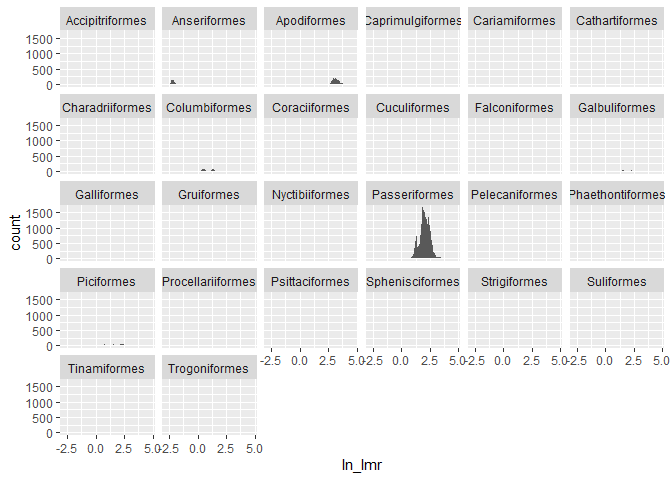
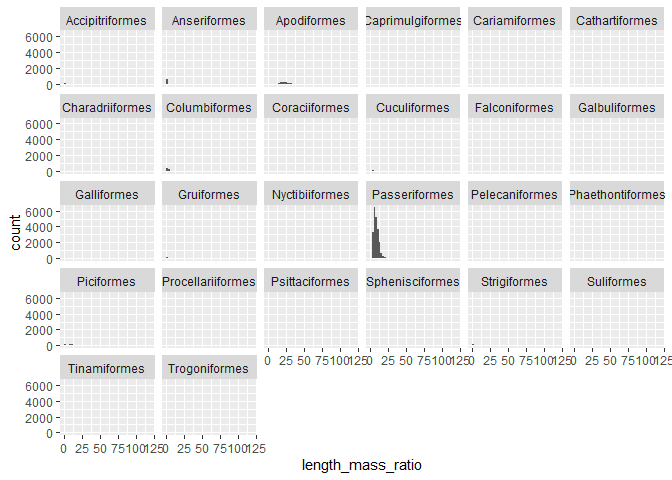
final edits by dr merkord

diff --git a/My-Poster.md b/My-Poster.md
@@ -31,43 +31,31 @@ Dr. Chris Merkord
 
 ## Results
 
--   one sentence description of conclusion
-
 ![](My-Poster_files/figure-gfm/unnamed-chunk-1-1.png)<!-- -->
 
--   we ran our mass to length ratio with altitude and found we had very
-    messy data
+Figure 1. We ran our mass to length ratio with altitude and found we had
+very messy data
 
-![](My-Poster_files/figure-gfm/unnamed-chunk-2-1.png)<!-- -->![](My-Poster_files/figure-gfm/unnamed-chunk-2-2.png)<!-- -->
-
--   here we noticed that our data were severely right skewed
+![](My-Poster_files/figure-gfm/unnamed-chunk-2-1.png)<!-- -->
 
 ![](My-Poster_files/figure-gfm/unnamed-chunk-3-1.png)<!-- -->
 
--   we corrected the skew in our data by taking the natural log of our
-    data points
-
-<!-- -->
-
-    ## `geom_smooth()` using formula 'y ~ x'
+-   Here we noticed that our data were severely right skewed
 
 ![](My-Poster_files/figure-gfm/unnamed-chunk-4-1.png)<!-- -->
 
-    ## `geom_smooth()` using formula 'y ~ x'
+-   We corrected the skew in our data by taking the natural log of our
+    data points
 
-![](My-Poster_files/figure-gfm/unnamed-chunk-4-2.png)<!-- -->
+![](My-Poster_files/figure-gfm/unnamed-chunk-5-1.png)<!-- -->![](My-Poster_files/figure-gfm/unnamed-chunk-5-2.png)<!-- -->
 
--   we plotted the mean lmr for each genus/species and saw a slight
+-   We plotted the mean lmr for each genus/species and saw a slight
     upward trend which intensified when we looked exclusivly at
     altitudes higher than 1000
 
-        ## `summarise()` has grouped output by 'Order', 'Family', 'Genus'. You can
-        ## override using the `.groups` argument.
-        ## `stat_bin()` using `bins = 30`. Pick better value with `binwidth`.
+    ![](My-Poster_files/figure-gfm/unnamed-chunk-6-1.png)<!-- -->
 
-    ![](My-Poster_files/figure-gfm/unnamed-chunk-5-1.png)<!-- -->
-
--   we took the mean lmr of birds found over 1000 m and birds found
+-   We took the mean lmr of birds found over 1000 m and birds found
     under 1000 and found the means were different
 
 -   The mean lmr of birds found above 1000 m = 7.9 while the mean lmr of
